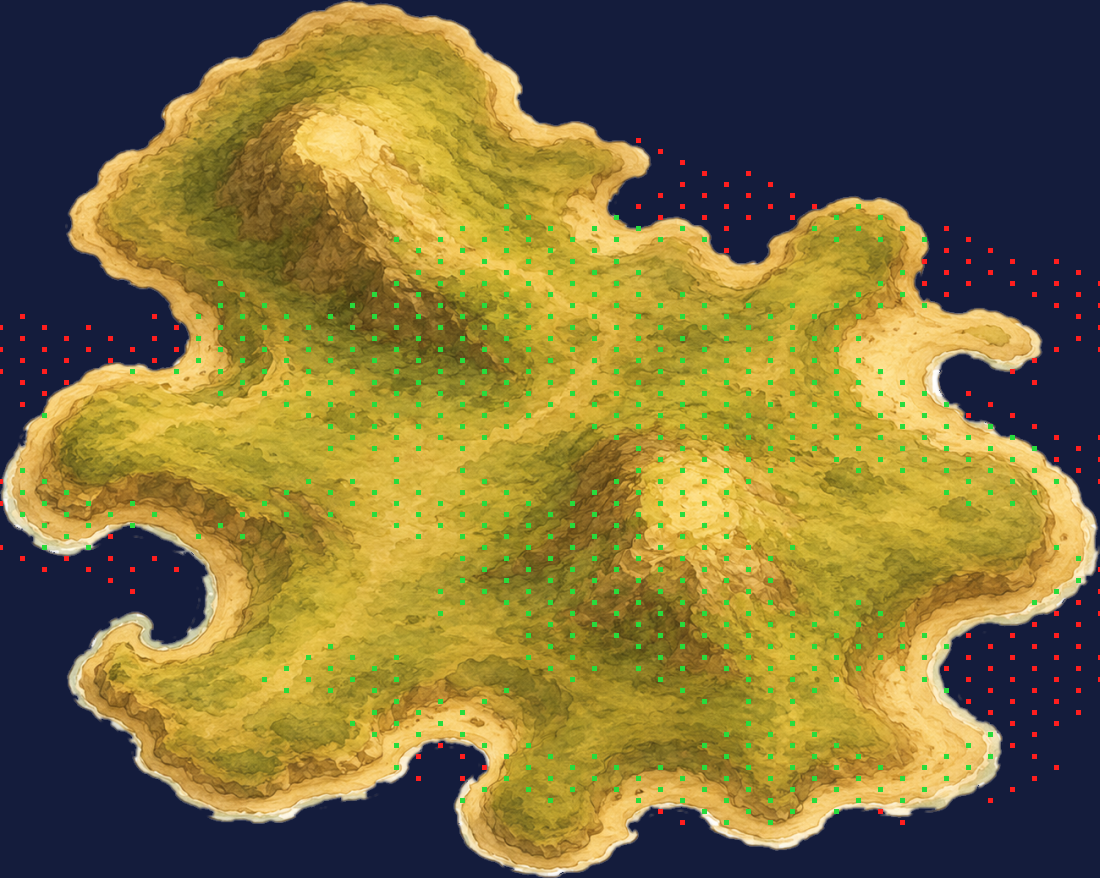
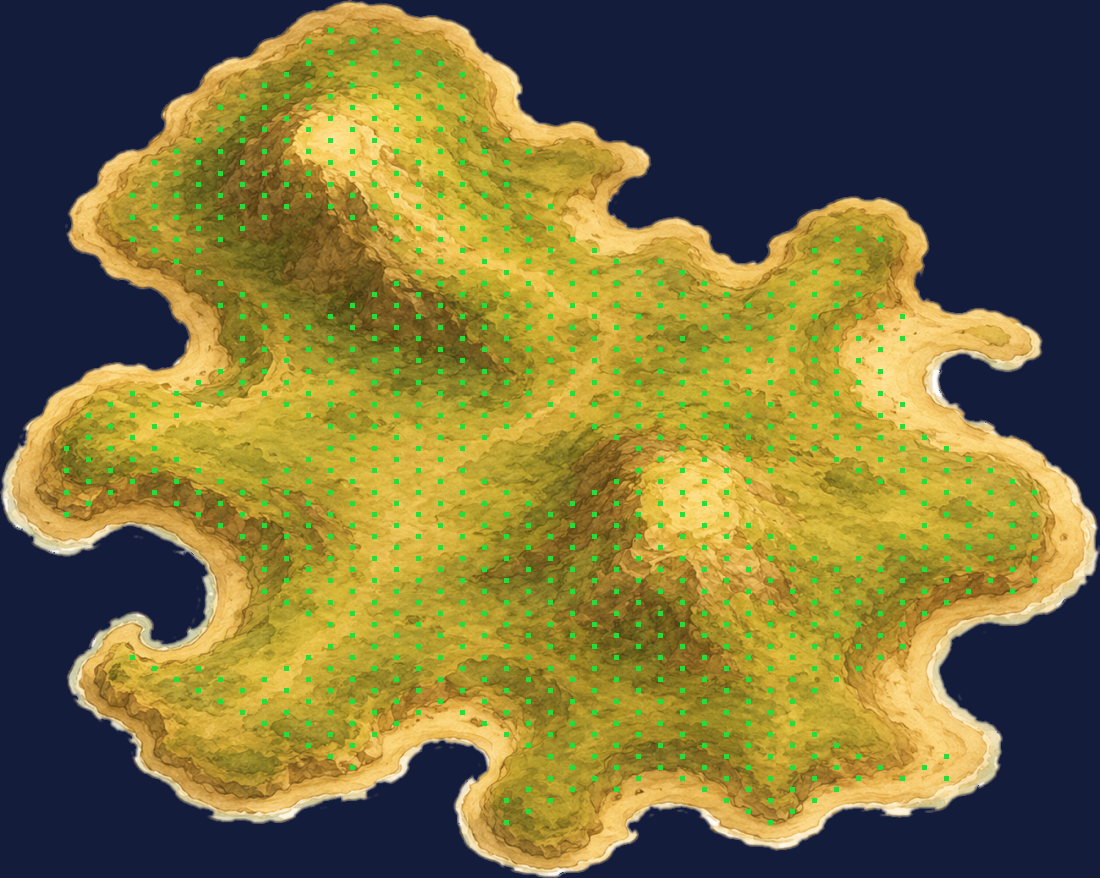
fix: derive walkable grid from the rendered sand, not the unused home-island
Bug 2 (avatar walks on water) persisted because the walk grid and the
rendered ground were two different paintings. buildGrid's land base came
from landCells, sampled from home-island.png — but loadGround() is never
called, so that PNG never renders. The visible ground is LayeredIsland's
sand-base-v2 sprite, a different silhouette. 270 of 877 walkable cells
(31%) sat over open ocean of the sand actually on screen.

Fix:
- Add layout.walkableCells: the alpha silhouette of sand-base-v2 (the art
  that renders), sampled through the same registration and eroded one cell
  inland so no walkable tile sits at the waterline. Generated by
  tools/island-art/gen-walkgrid.mjs.
- buildGrid now uses walkableCells as its land base (falls back to
  landCells). landCells is left untouched, so world-bounds, ground
  registration and the coast shimmer — and every landmark coordinate — are
  byte-for-byte unchanged.
- Drop obstacleCells blocking in buildGrid. obstacleCells were also
  home-island-derived; laid over the sand they wall the spawn off from the
  northern zones, and the only way the old grid routed around them was
  across ocean cells (the bug itself). Keeping them made a water-free grid
  that still reaches every zone impossible. The visible trees are
  LayeredIsland scatter props, unrelated to these cells, so nothing on
  screen changes.

Verified (tools/island-art):
- diag-walkwater.mjs: walkable-over-visible-water = 0 (was 270).
[…]

diff --git a/packages/island-scene/src/defaultLayout.ts b/packages/island-scene/src/defaultLayout.ts
@@ -115,6 +115,54 @@ const OBSTACLE_ROWS: Array<[number, Array<[number, number]>]> = [
 
 const landCells: GridPosition[] = expand(LAND_ROWS);
 
+// Walkable footprint, sampled from the alpha of the ground art that ACTUALLY
+// renders (assets/sprites/sand-base-v2.png) through the same registration used
+// for world-bounds, then eroded one cell inland so no walkable tile sits at the
+// waterline. This — not LAND_ROWS (sampled from the legacy, unrendered
+// home-island.png) — is the avatar's walk base, so it can never stand on the
+// visible ocean. Generated by tools/island-art/gen-walkgrid.mjs — do not
+// hand-edit. Reachability from spawn to every zone is verified there.
+const WALK_ROWS: Array<[number, Array<[number, number]>]> = [
+  [6, [[24,25]]],
+  [7, [[24,25]]],
+  [8, [[4,8], [24,26]]],
+  [9, [[3,9], [14,15], [25,30]]],
+  [10, [[3,15], [25,30]]],
+  [11, [[4,15], [25,30]]],
+  [12, [[4,16], [21,31]]],
+  [13, [[4,33]]],
+  [14, [[4,40]]],
+  [15, [[4,41]]],
+  [16, [[5,42]]],
+  [17, [[5,43]]],
+  [18, [[5,44]]],
+  [19, [[5,44]]],
+  [20, [[6,43]]],
+  [21, [[6,43]]],
+  [22, [[7,43]]],
+  [23, [[8,43]]],
+  [24, [[13,44]]],
+  [25, [[15,44]]],
+  [26, [[16,45]]],
+  [27, [[16,49]]],
+  [28, [[16,50]]],
+  [29, [[16,51]]],
+  [30, [[15,50]]],
+  [31, [[15,49]]],
+  [32, [[15,49]]],
+  [33, [[16,49]]],
+  [34, [[16,49]]],
+  [35, [[17,19], [25,49]]],
+  [36, [[18,19], [27,44]]],
+  [37, [[19,19], [28,44]]],
+  [38, [[29,36], [42,44]]],
+  [39, [[29,36], [42,44]]],
+  [40, [[29,36], [42,45]]],
+  [41, [[29,36], [43,45]]],
+  [42, [[27,37]]],
+];
+const walkableCells: GridPosition[] = expand(WALK_ROWS);
+
 // Nine landmark zones, positioned from the drag-and-drop layout editor (the
 // editor's percentage offsets mapped onto the sand ellipse). Campfire at the
 // centre; the dock is pushed to the southern waterline so its planks reach the
@@ -204,6 +252,7 @@ const obstacleCells: GridPosition[] = (() => {
 export const sampleLayout: LayoutConfig = {
   grid: { w: GRID_W, h: GRID_H },
   landCells,
+  walkableCells,
   obstacleCells,
   spawnPoint,
   // Reserved invisible anchor (future picture-frame video dock).

diff --git a/packages/island-scene/src/render/SceneRenderer.ts b/packages/island-scene/src/render/SceneRenderer.ts
@@ -801,14 +801,23 @@ export class SceneRenderer {
     }
   }
 
-  /** Walkable = land, minus decoration cells and zone footprints (obstacles). */
+  /** Walkable = the sand the art actually renders, minus decoration cells and
+   *  zone footprints. */
   private buildGrid(): void {
-    const land = new Set(this.layout.landCells.map((c) => `${c.x},${c.y}`));
+    // Walk base is `walkableCells` — the eroded silhouette of the rendered sand
+    // (sand-base-v2), NOT `landCells` (sampled from the legacy, unrendered
+    // home-island.png). That mismatch is what let the avatar stand on ocean, so
+    // walkability must track the visible sand. Fall back to landCells only if a
+    // layout omits the walkable set.
+    const land = new Set(
+      (this.layout.walkableCells ?? this.layout.landCells).map((c) => `${c.x},${c.y}`),
+    );
     const blocked = new Set<string>();
-    // Painted tree/rock masses: impassable, so the avatar walks around them.
-    for (const o of this.layout.obstacleCells ?? []) {
-      blocked.add(`${o.x},${o.y}`);
-    }
+    // NOTE: obstacleCells (legacy home-island tree/rock masses) are deliberately
+    // NOT blocked here. Overlaid on the sand silhouette they wall the spawn off
+    // from the northern zones, and the only way the old grid routed around them
+    // was across ocean cells — the very walk-on-water bug. The visible trees are
+    // LayeredIsland scatter props, unrelated to these cells.
     for (const d of this.layout.decorations ?? []) {
       blocked.add(`${d.position.x},${d.position.y}`);
     }

diff --git a/packages/island-scene/src/types.ts b/packages/island-scene/src/types.ts
@@ -114,8 +114,18 @@ export interface ZoneInstance {
 export interface LayoutConfig {
   /** Coarse grid size of the entire walkable island. */
   grid: { w: number; h: number };
-  /** Island silhouette as a list of grid cells that are land (vs water). */
+  /** Island silhouette as a list of grid cells that are land (vs water). Drives
+   *  world-bounds / ground registration and the coast shimmer. */
   landCells: GridPosition[];
+  /**
+   * Cells the avatar may actually stand on. Derived from the alpha silhouette of
+   * the ground art that ACTUALLY renders (sand-base-v2), eroded a cell inland so
+   * no walkable tile sits at the waterline. When present this — not `landCells` —
+   * is the walk base, so walkability tracks the visible sand rather than the
+   * (legacy, unrendered) painted island `landCells` was sampled from. Pathfinding
+   * still flood-fills reachability from spawn over this set.
+   */
+  walkableCells?: GridPosition[];
   /**
    * Land cells the avatar cannot stand on or walk through — e.g. tree masses
    * and boulders painted into the terrain illustration. Treated like water by